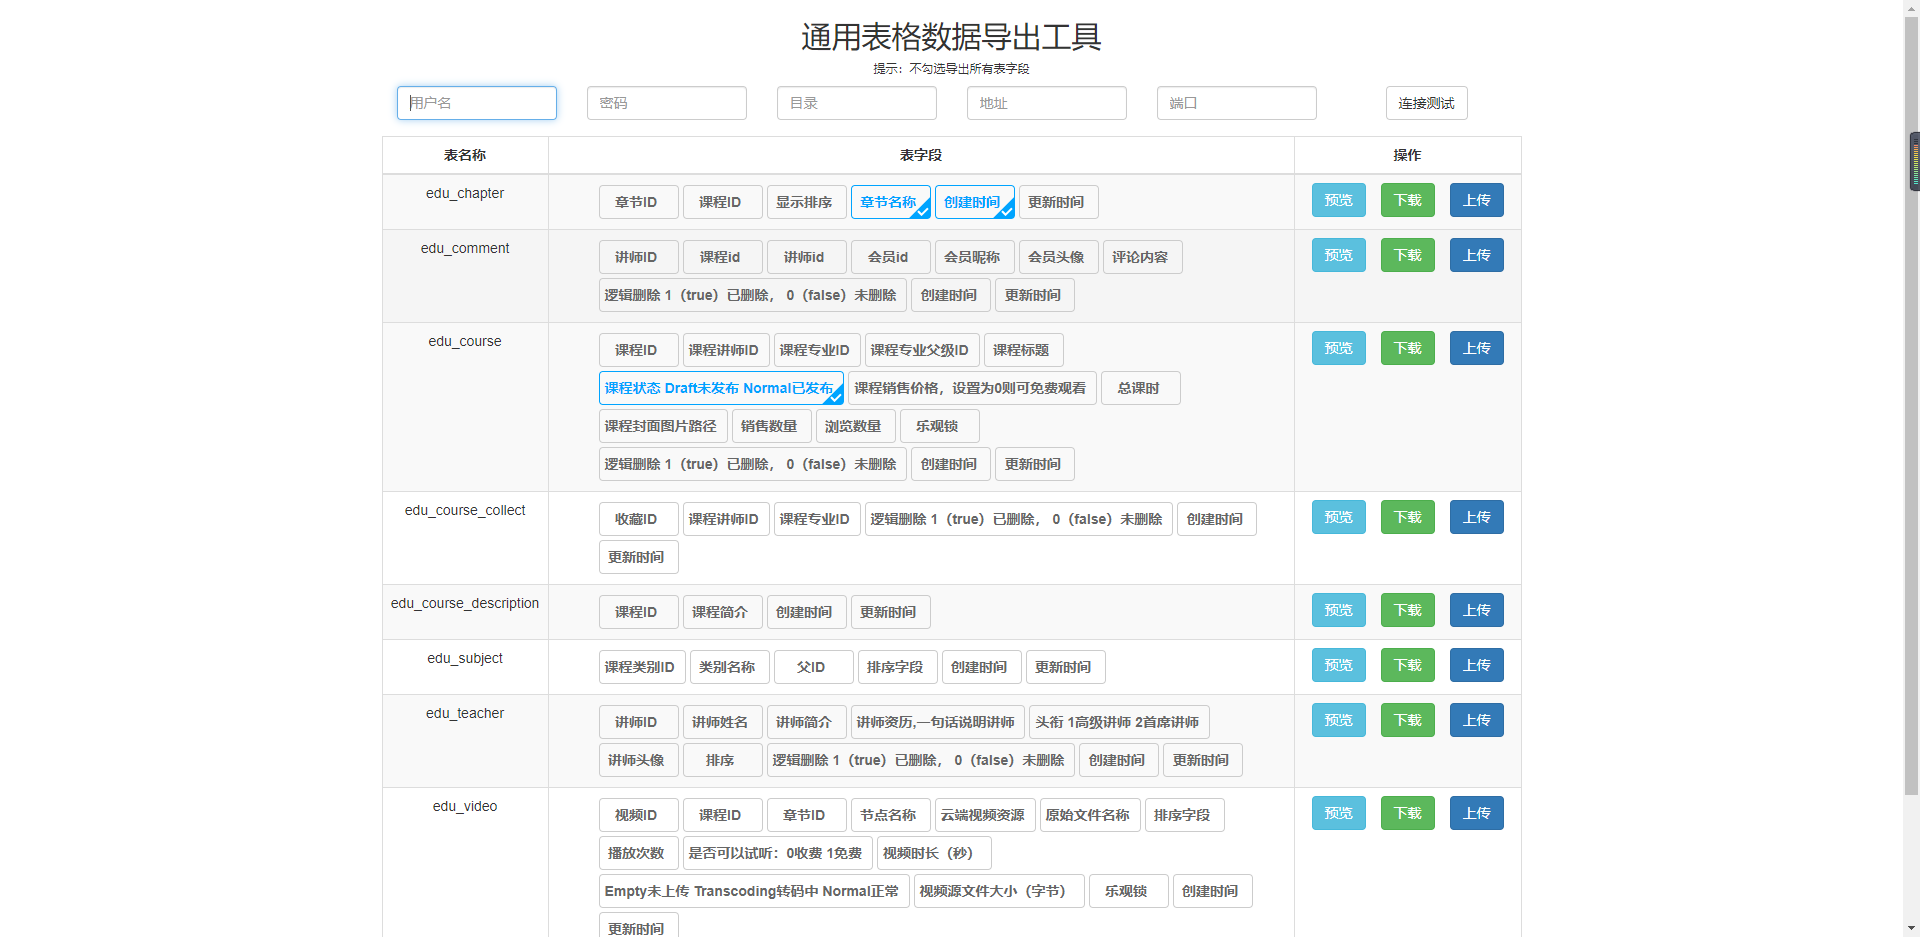
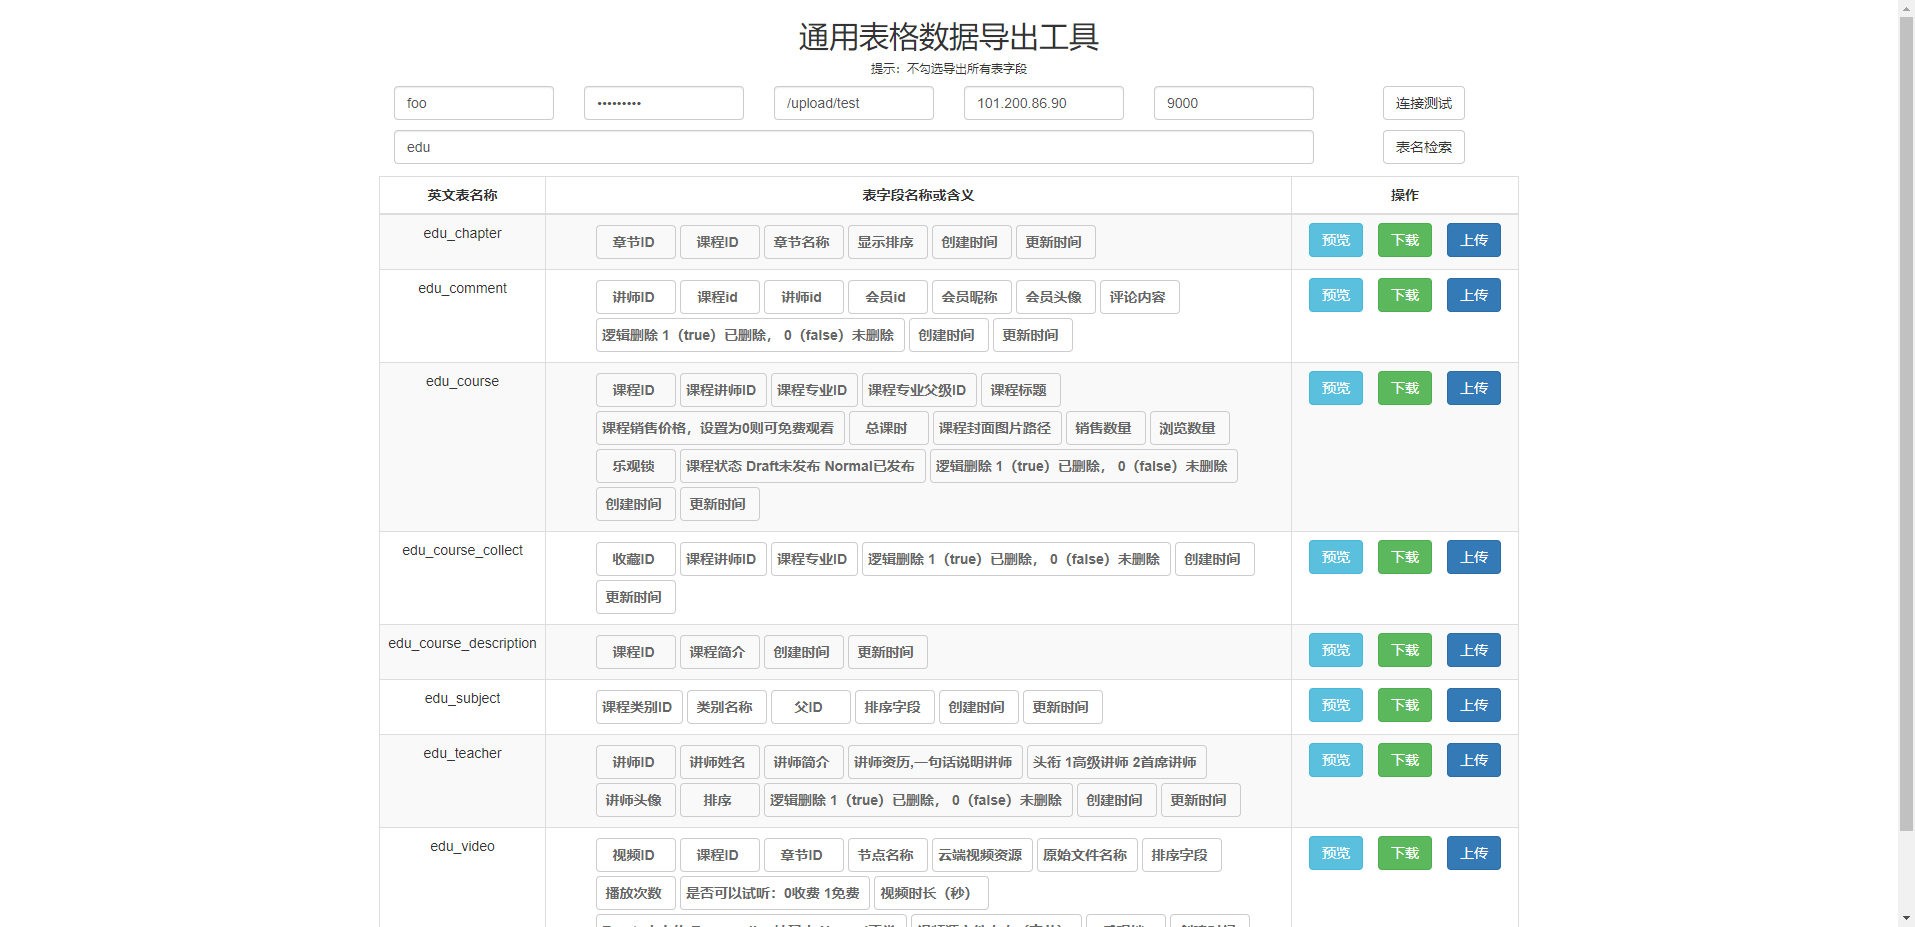
添加检索表名条件

diff --git a/web-dubbo/src/main/resources/templates/index.html b/web-dubbo/src/main/resources/templates/index.html
@@ -74,16 +74,23 @@
     <div class="col-xs-2">
         <button type="button" onclick="doCheck()" class="btn btn-default">连接测试</button>
     </div>
-    <div style="padding-top: 50px">
+
+    <div class="col-xs-10" style="padding-top: 10px">
+        <input type="text" class="form-control" id="tableNameVal" placeholder="英文表名称">
+    </div>
+    <div class="col-xs-2" style="padding-top: 10px">
+        <button type="button" onclick="doTabList()" class="btn btn-default">表名检索</button>
+    </div>
+    <div style="padding-top: 90px">
         <table class="table table-hover table-expandable table-striped table-bordered">
             <thead>
             <tr>
-                <th style="text-align: center">表名称</th>
-                <th style="text-align: center">表字段</th>
+                <th style="text-align: center">英文表名称</th>
+                <th style="text-align: center">表字段名称或含义</th>
                 <th style="text-align: center" width="20%">操作</th>
             </tr>
             </thead>
-            <tbody>
+            <tbody id="tabBody">
             </tbody>
         </table>
     </div>
@@ -168,13 +175,17 @@
     }
 
     function doTabList() {
+        var tableNameVal = $("#tableNameVal").val();
         $.ajax({
             url: "http://localhost:8081/excel/list",
             type: "get",
+            data: {tableName: tableNameVal},
             // traditional: true,
             success: function (result) {
+                let table = $("#tabBody");
+                table.html("");
                 for (var data in result) {
-                    $(".table").append("<tr id='" + result[data].tableName + "'><td>" + result[data].tableName + "</td>" +
+                    table.append("<tr id='" + result[data].tableName + "'><td>" + result[data].tableName + "</td>" +
                         "<td><div class='RadioStyle'><div id='" + result[data].tableName + "colum' class='Block PaddingL'><ul class='sortable' style='margin-bottom: 0!important;'></ul></div></div></td>" +
                         "<td><button type='button' class='btn btn-info' onclick='doTab(\"" + result[data].tableName + "\")'>预览</button>" +
                         "<button type='button' style='margin-inline: 15px;' class='btn btn-success' onclick='doDown(\"" + result[data].tableName + "\")'>下载</button>" +
@@ -197,9 +208,9 @@
                     });
                 }
             },
-            // error: function (XMLHttpRequest, textStatus, errorThrown) {
-            //     alert(textStatus, errorThrown);
-            // }
+            error: function (XMLHttpRequest, textStatus, errorThrown) {
+                alert(textStatus, errorThrown);
+            }
         });
     }
 </script>

diff --git a/rest-dubbo/src/main/java/org/cmcc/dao/CustExcelEntityDao.java b/rest-dubbo/src/main/java/org/cmcc/dao/CustExcelEntityDao.java
@@ -50,8 +50,11 @@ public class CustExcelEntityDao {
         return resultMap;
     }
 
-    public LinkedHashMap<String, ExcelEntityDto> showTables() {
-        String sql = "show tables";
+    public LinkedHashMap<String, ExcelEntityDto> showTables(String tableName) {
+        if (tableName == null) {
+            tableName = "";
+        }
+        String sql = "show tables like '%" + tableName + "%'";
         //创建本地查询
         Query nativeQuery = entityManager.createNativeQuery(sql);
         List<String> resultList = nativeQuery.getResultList();

diff --git a/rest-dubbo/src/main/java/org/cmcc/service/ExcelExportServiceImpl.java b/rest-dubbo/src/main/java/org/cmcc/service/ExcelExportServiceImpl.java
@@ -66,8 +66,8 @@ public class ExcelExportServiceImpl implements ExcelExportService {
     @Path("list")
     @GET
     @Produces("application/json")
-    public LinkedHashMap<String, ExcelEntityDto> showTables() {
-        return custExcelEntityDao.showTables();
+    public LinkedHashMap<String, ExcelEntityDto> showTables(String tableName) {
+        return custExcelEntityDao.showTables(tableName);
     }
 
     @Override

diff --git a/web-dubbo/src/main/java/org/cmcc/controller/WebController.java b/web-dubbo/src/main/java/org/cmcc/controller/WebController.java
@@ -76,8 +76,8 @@ public class WebController {
 
     @GetMapping("/excel/list")
     @ResponseBody
-    public LinkedHashMap<String, ExcelEntityDto> list() {
-        return excelExportService.showTables();
+    public LinkedHashMap<String, ExcelEntityDto> list(@RequestParam(required = false) String tableName) {
+        return excelExportService.showTables(tableName);
     }
 
     @GetMapping("/index")

diff --git a/dubbo-api/src/main/java/org/cmcc/service/ExcelExportService.java b/dubbo-api/src/main/java/org/cmcc/service/ExcelExportService.java
@@ -10,7 +10,7 @@ import java.util.Map;
 public interface ExcelExportService {
     public List<Map<String, Object>> excelExport(String tableName, String... colms);
 
-    public LinkedHashMap<String, ExcelEntityDto> showTables();
+    public LinkedHashMap<String, ExcelEntityDto> showTables(String tableName);
 
     public String check(String dir, String username, String host, String port, String pwd);
 

diff --git a/rest-dubbo/src/main/test/org/cmcc/service/ExcelExportServiceImplTest.java b/rest-dubbo/src/main/test/org/cmcc/service/ExcelExportServiceImplTest.java
@@ -32,7 +32,7 @@ public class ExcelExportServiceImplTest {
 
     @Test
     public void showTables() {
-        LinkedHashMap<String, ExcelEntityDto> s = excelExportService.showTables();
+        LinkedHashMap<String, ExcelEntityDto> s = excelExportService.showTables("");
         System.out.println(s);
     }
 }

diff --git a/README.md b/README.md
@@ -20,7 +20,7 @@
 - [x] 导出指定表数据信息的excel文件,并可指定字段筛选导出,不进行勾选字段时默认导出所有字段数据;
 - [x] 指定sftp文件服务器上传指定表数据信息的excel文件,并可指定字段筛选上传,不进行勾选字段时默认上传所有字段数据;
 - [x] 前端可拖拽字段顺序,通过自定义字段显示顺序定制导出excel文件;
-- [ ] 前端可指定导出数据分页条目和数量,可索引表指定字段数据进行相应操作;
+- [x] 前端可索引表指定字段数据进行相应操作;
 - [ ] 前端表单校验,提示信息模态框展示,提升用户体验;
 - [ ] 导出性能优化,提升后台服务文件导出效率,异步文件上传操作;
 - [ ] 表单二次提交问题优化,后台其他配置参数优化;
